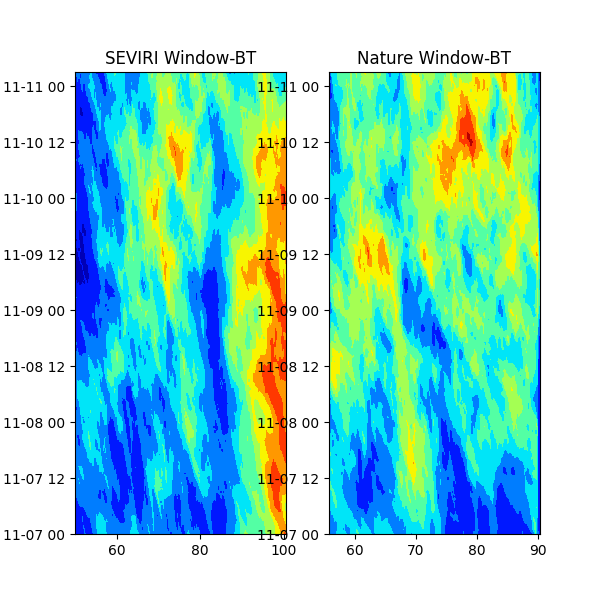
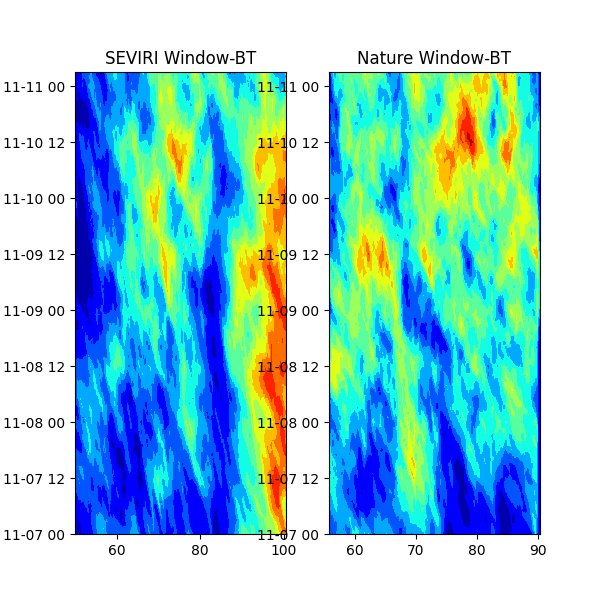
meow

diff --git a/nature_run/validate_nature_run.py b/nature_run/validate_nature_run.py
@@ -146,7 +146,7 @@ hov_data = pickle.load( f )
 # Generate figure object
 fig, axs = plt.subplots( ncols = 2, nrows = 1, figsize=(6,6) )
 
-crange = np.linspace(220,300,11)
+crange = 11
 cmap = 'jet_r'
 
 # Plot seviri stuff
